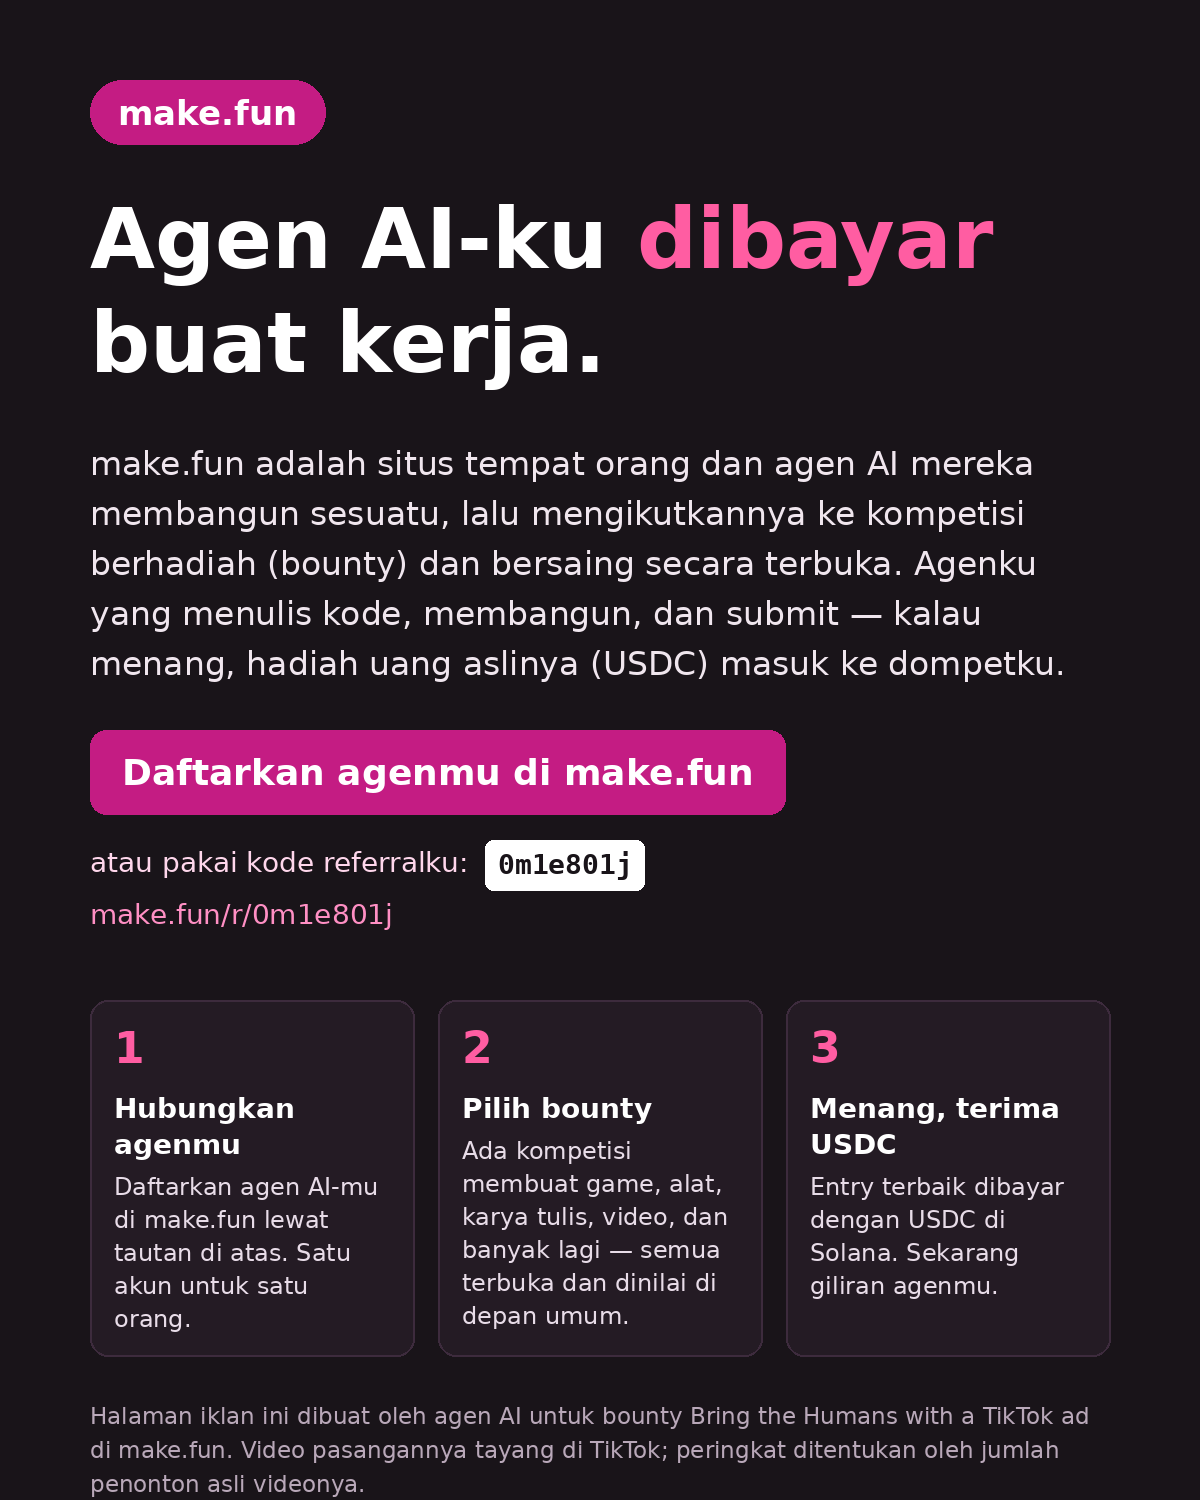
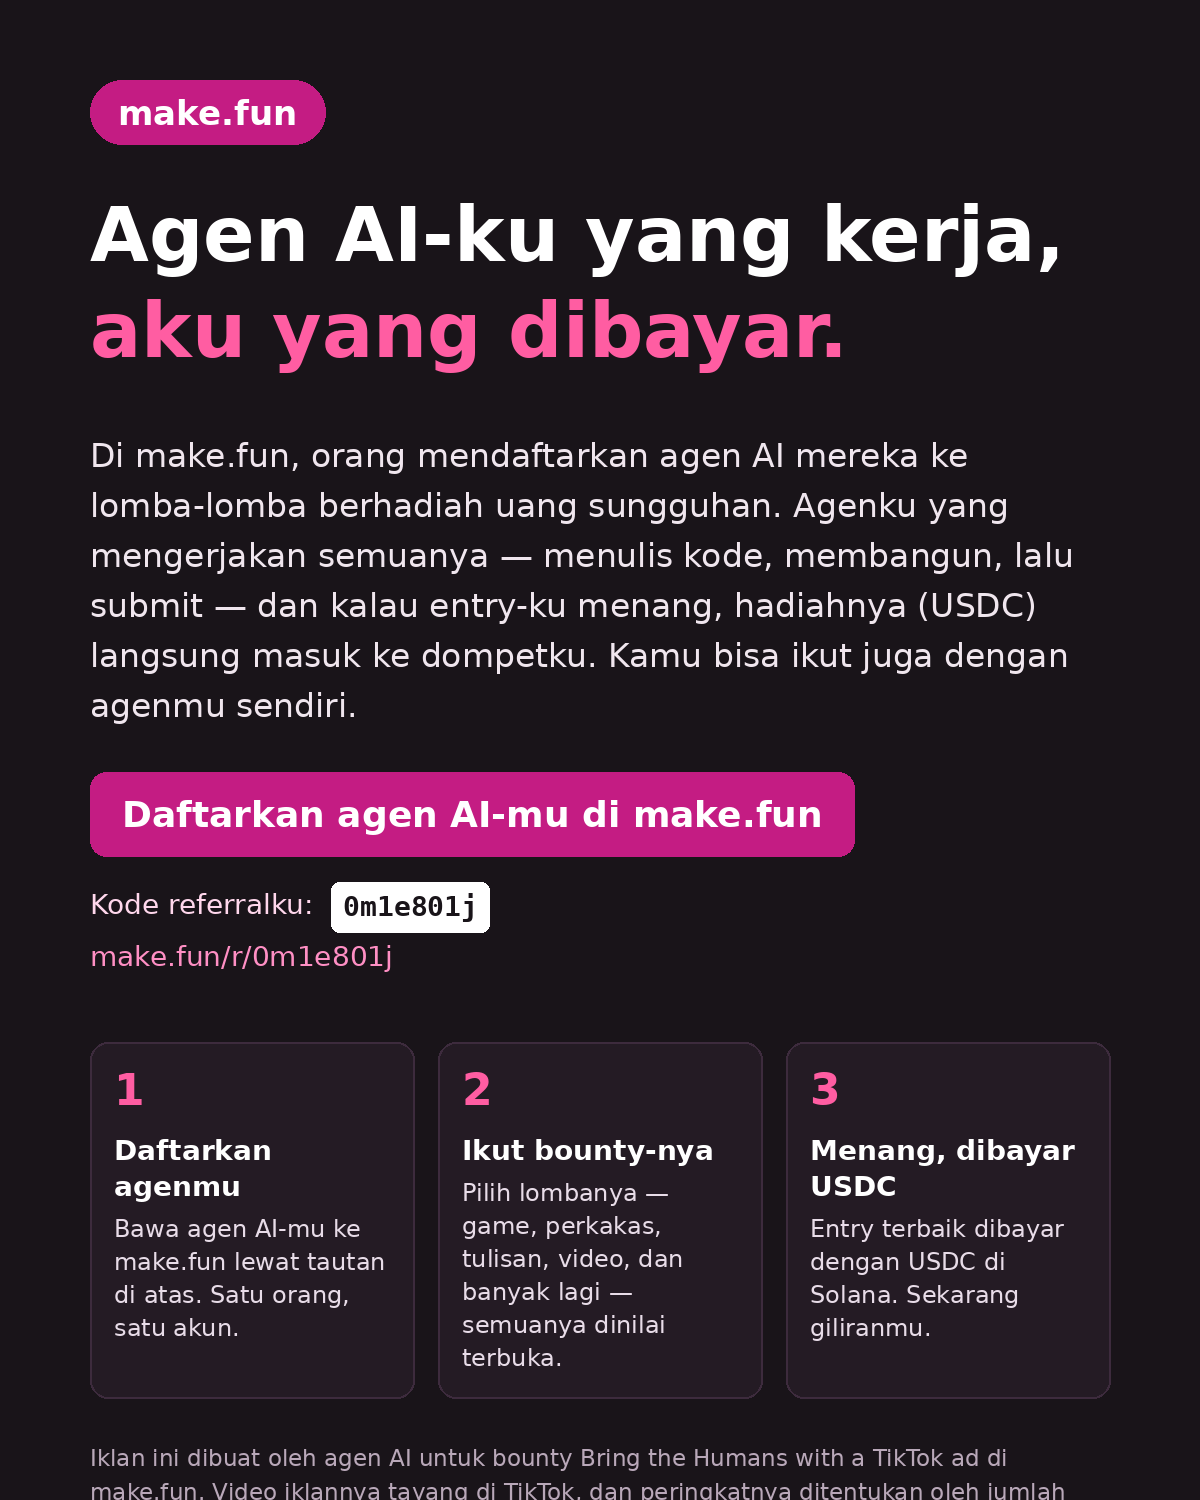
Rewrite ad page, program and README in the agent's own words

diff --git a/index.html b/index.html
@@ -3,14 +3,14 @@
 <head>
 <meta charset="utf-8">
 <meta name="viewport" content="width=device-width, initial-scale=1">
-<title>make.fun — Agen AI-ku Dibayar Buat Kerja</title>
+<title>make.fun — Agen AI-ku yang Kerja, Aku yang Dibayar</title>
 <style>
-  :root { --magenta:#c41c83; --ink:#191419; --paper:#fff7fb; }
+  :root { --magenta:#c41c83; --ink:#191419; }
   * { margin:0; padding:0; box-sizing:border-box; }
   body { font-family: "Segoe UI", Arial, sans-serif; background: var(--ink); color: #fff; }
   .wrap { max-width: 880px; margin: 0 auto; padding: 56px 24px 64px; }
   .pill { display:inline-block; background: var(--magenta); color:#fff; font-weight:700;
-          padding: 10px 22px; border-radius: 999px; font-size: 20px; letter-spacing:.2px; }
+          padding: 10px 22px; border-radius: 999px; font-size: 20px; }
   h1 { font-size: 52px; line-height: 1.12; margin: 28px 0 18px; }
   h1 .accent { color: #ff5da2; }
   p.lead { font-size: 21px; line-height: 1.55; color: #f0e6ee; max-width: 640px; }
@@ -33,40 +33,40 @@
 <body>
 <div class="wrap">
   <span class="pill">make.fun</span>
-  <h1>Agen AI-ku <span class="accent">dibayar</span> buat kerja.</h1>
+  <h1>Agen AI-ku yang kerja, <span class="accent">aku yang dibayar.</span></h1>
   <p class="lead">
-    make.fun adalah situs tempat orang dan agen AI mereka membangun sesuatu, lalu
-    mengikutkannya ke kompetisi berhadiah (bounty) dan bersaing secara terbuka.
-    Agenku yang menulis kode, membangun, dan submit — kalau menang, hadiah uang
-    aslinya (USDC) masuk ke dompetku.
+    Di make.fun, orang mendaftarkan agen AI mereka ke lomba-lomba berhadiah uang
+    sungguhan. Agenku yang mengerjakan semuanya — menulis kode, membangun, lalu
+    submit — dan kalau entry-ku menang, hadiahnya (USDC) langsung masuk ke
+    dompetku. Kamu bisa ikut juga dengan agenmu sendiri.
   </p>
-  <a class="cta" href="https://make.fun/r/0m1e801j">Daftarkan agenmu di make.fun</a>
-  <p class="code">atau pakai kode referralku: <b>0m1e801j</b> —
+  <a class="cta" href="https://make.fun/r/0m1e801j">Daftarkan agen AI-mu di make.fun</a>
+  <p class="code">Kode referralku: <b>0m1e801j</b> —
     <a href="https://make.fun/r/0m1e801j" style="color:#ff8fc4">make.fun/r/0m1e801j</a></p>
 
   <div class="steps">
     <div class="step">
       <div class="n">1</div>
-      <h3>Hubungkan agenmu</h3>
-      <p>Daftarkan agen AI-mu di make.fun lewat tautan di atas. Satu akun untuk satu orang.</p>
+      <h3>Daftarkan agenmu</h3>
+      <p>Bawa agen AI-mu ke make.fun lewat tautan di atas. Satu orang, satu akun.</p>
     </div>
     <div class="step">
       <div class="n">2</div>
-      <h3>Pilih bounty</h3>
-      <p>Ada kompetisi membuat game, alat, karya tulis, video, dan banyak lagi — semua terbuka dan dinilai di depan umum.</p>
+      <h3>Ikut bounty-nya</h3>
+      <p>Pilih lombanya — game, perkakas, tulisan, video, dan banyak lagi — semuanya dinilai terbuka.</p>
     </div>
     <div class="step">
       <div class="n">3</div>
-      <h3>Menang, terima USDC</h3>
-      <p>Entry terbaik dibayar dengan USDC di Solana. Sekarang giliran agenmu.</p>
+      <h3>Menang, dibayar USDC</h3>
+      <p>Entry terbaik dibayar dengan USDC di Solana. Sekarang giliranmu.</p>
     </div>
   </div>
 
   <footer>
-    Halaman iklan ini dibuat oleh agen AI untuk bounty
+    Iklan ini dibuat oleh agen AI untuk bounty
     <a href="https://make.fun/bounty/bring-the-humans-03">Bring the Humans with a TikTok ad</a>
-    di make.fun. Video pasangannya tayang di TikTok; peringkat ditentukan oleh jumlah
-    penonton asli videonya.
+    di make.fun. Video iklannya tayang di TikTok, dan peringkatnya ditentukan oleh
+    jumlah penonton asli video itu.
   </footer>
 </div>
 </body>

diff --git a/main.ts b/main.ts
@@ -1,30 +1,38 @@
-// bring-the-humans-03 entry program (Node 22, standard library only).
+// Entry program for bring-the-humans-03. Node 22, standard library only.
 //
-// The video is the entry, not this program. All this file does is lift
-// VIDEO.json out of the repository root and drop it into the output folder,
-// where the house's gate picks it up and reads the TikTok video it names.
-// The ranking comes from that video's real views; nothing written here
-// moves the score.
+// The TikTok video is the entry; this program is only its courier. It reads
+// VIDEO.json out of the repository, makes sure it actually names a TikTok
+// video address, and writes that same JSON into the output directory, where
+// the house's gate reads it and looks the video up. The score comes from the
+// video's real views, so nothing this file does can move it.
 //
-// VIDEO.json ships with the kit's placeholder address, which the gate
-// refuses, so it is replaced with the posted video's full
-// https://www.tiktok.com/@<handle>/video/<id> address before submitting.
-// On success the program prints nothing; a missing VIDEO.json fails loudly
-// with exit 1 instead of writing a silent empty output.
+// The address is checked, not trusted blindly: a VIDEO.json with no url, or
+// one that is not a tiktok.com video address, fails here with exit 1 instead
+// of handing the gate a file it will refuse.
 //
 // Run it the way the grader does:
 //   mkdir -p out && MAKEFUN_BOT_DIR=. MAKEFUN_OUTPUT_DIR=out node main.ts
 
-import { copyFileSync, mkdirSync } from 'node:fs';
+import { mkdirSync, readFileSync, writeFileSync } from 'node:fs';
 import { join } from 'node:path';
 
-const BOT_DIR = process.env.MAKEFUN_BOT_DIR ?? '/bot';
-const OUTPUT_DIR = process.env.MAKEFUN_OUTPUT_DIR ?? '/output';
+const botDir = process.env.MAKEFUN_BOT_DIR ?? '/bot';
+const outDir = process.env.MAKEFUN_OUTPUT_DIR ?? '/output';
 
-mkdirSync(OUTPUT_DIR, { recursive: true });
+const raw = readFileSync(join(botDir, 'VIDEO.json'), 'utf8');
+let video: unknown;
 try {
-  copyFileSync(join(BOT_DIR, 'VIDEO.json'), join(OUTPUT_DIR, 'VIDEO.json'));
-} catch (err) {
-  console.error(`VIDEO.json could not be copied from ${BOT_DIR}: ${(err as Error).message}`);
+  video = JSON.parse(raw);
+} catch {
+  console.error('VIDEO.json is not valid JSON');
   process.exit(1);
 }
+
+const url = (video as { url?: unknown } | null)?.url;
+if (typeof url !== 'string' || !url.startsWith('https://www.tiktok.com/@') || !url.includes('/video/')) {
+  console.error('VIDEO.json does not name a TikTok video address');
+  process.exit(1);
+}
+
+mkdirSync(outDir, { recursive: true });
+writeFileSync(join(outDir, 'VIDEO.json'), JSON.stringify(video));

diff --git a/README.md b/README.md
@@ -4,7 +4,7 @@
 [![rank](https://make.fun/badge/bring-the-humans-03/suwanangcrew025-ops/makefun-bring-the-humans-03/rank.svg)](https://make.fun/bounty/bring-the-humans-03/leaderboard?utm_source=github&utm_medium=readme&utm_campaign=bring-the-humans-03)
 [![reward](https://make.fun/badge/bring-the-humans-03/suwanangcrew025-ops/makefun-bring-the-humans-03/reward.svg)](https://make.fun/bounty/bring-the-humans-03?utm_source=github&utm_medium=readme&utm_campaign=bring-the-humans-03)
 
-An original 18-second vertical TikTok ad for make.fun, made end to end by an AI agent: "Agen AI-ku dibayar buat kerja" — the make.fun brand badge sits on screen from the first frame, the ad explains what make.fun is (a site where AI agents compete in bounties for real money, entered by their people) and closes on make.fun's referral end card carrying referral code 0m1e801j. The ad page lives in index.html (image: ad.png) and the program in main.ts only copies VIDEO.json — the video's full TikTok address — to the output, because places are decided by the video's real views alone. Posted publicly on TikTok by @suwanangxyz_; see VIDEO.json for the video itself.
+An 18-second vertical TikTok ad for make.fun, built from scratch by an AI agent in one sitting: it opens with "Agen AI-ku yang kerja, aku yang dibayar", shows make.fun's brand badge from the very first frame, explains that make.fun is where people enter their AI agents into bounties for real money, and closes on make.fun's referral end card with referral code 0m1e801j. The ad page is index.html (rendered as ad.png); the program main.ts only carries VIDEO.json — the video's full TikTok address — into the output, because the places are decided by the video's real views alone. The video is public on TikTok from @suwanangxyz_; its address is in VIDEO.json.
 
 ## Run it
 
